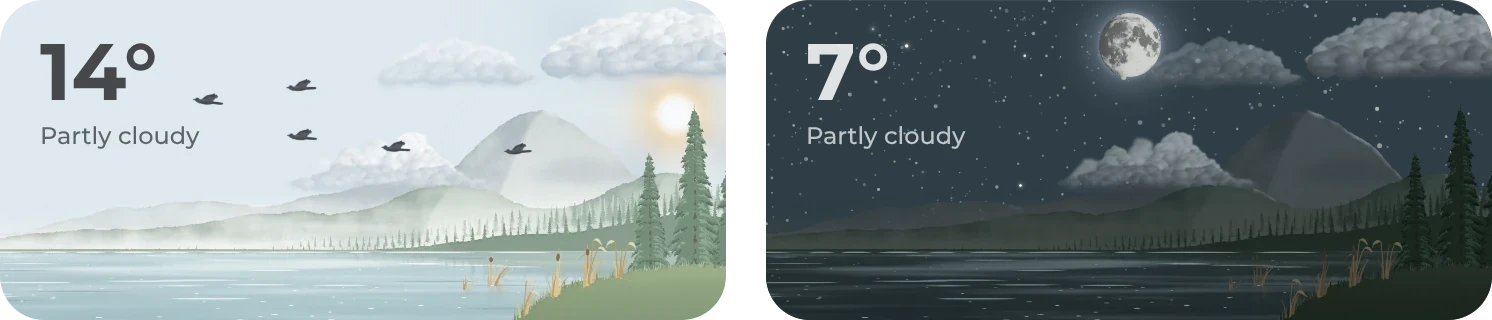
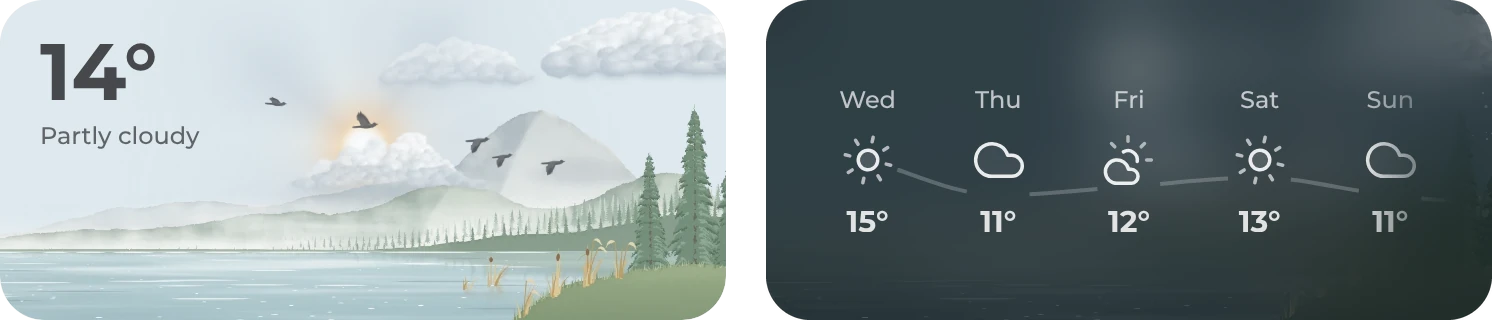
The diorama's image from the bench, with the next days open at night

diff --git a/.github/bench/images/make.py b/.github/bench/images/make.py
@@ -5,13 +5,15 @@
 Without names, it makes every image that has a file here. It needs Python with PyYAML and Pillow,
 and the bench set up as .github/bench/bench.mjs says. The other cards and the status bar's font are
 downloaded once into .github/bench/.cache, and again when their address changes, such as for a new version.
-The weather part's images are Origami Weather's own, from its README, so no file here makes them.
+The sky's and the house's images are Origami Weather's own, from its README, so no file here makes them. weather.yaml
+makes the diorama's, with the next days open at night.
 
 home.yaml has the example home: its states, the answers to templates and messages, and the home view,
 which stands behind every pop-up. Each <name>.yaml makes images/v3/<name>.webp, with its light and dark mode
 side by side, and has:
 
-  kind: panel for a card, or phone for a pop-up or the menu on a phone
+  kind: panel for a card on its page, card for a card alone, cut at its edges like Origami Weather's own images,
+    or phone for a pop-up or the menu on a phone
   cards: the cards, each a card or {file: <path under dashboard/>, replace: {text: text}, with: {key: value}},
     where replace changes the file's text, such as a room's name, and with sets or deletes top-level keys.
   drop: the files of cards to leave out, such as the climate table that another file's cards have
@@ -39,7 +41,7 @@ headline and the line. three.js is downloaded once into .github/bench/.cache too
 """
 import json, os, random, re, shutil, subprocess, sys, urllib.request
 import yaml
-from PIL import Image
+from PIL import Image, ImageDraw
 
 HERE = os.path.dirname(os.path.abspath(__file__))
 REPO = os.path.abspath(os.path.join(HERE, '../../..'))
@@ -173,6 +175,18 @@ def status(name, mode, spec, keys):
     return out
 
 
+def alone(im, scale):
+    """A card alone, cut at its edges with the theme's round corners, as Origami Weather's own images show its cards.
+    The bench's section pads the card by 16 px, and the theme's cards have a radius of 22 px."""
+    pad, radius = 16 * scale, 22 * scale
+    im = im.crop((pad, pad, im.width - pad, im.height - pad)).convert('RGBA')
+    # The corners are drawn four times as large and scaled down, so their edge is smooth
+    mask = Image.new('L', (im.width * 4, im.height * 4), 0)
+    ImageDraw.Draw(mask).rounded_rectangle((0, 0, mask.width - 1, mask.height - 1), radius * 4, fill=255)
+    im.putalpha(mask.resize(im.size, Image.LANCZOS))
+    return im
+
+
 def frame(spec, work):
     with open(os.path.join(work, 'frame.json'), 'w') as f:
         json.dump(spec, f)
@@ -267,6 +281,9 @@ def make(name):
     for mode in [spec['mode']] if 'mode' in spec else ['light', 'dark']:
         keys, shot = shoot(mode, home, files, work, phone_page)
         im = Image.open(shot).convert('RGB')
+        if spec['kind'] == 'card':
+            framed[mode] = alone(im, keys.get('scale', 2))
+            continue
         out = {'kind': spec['kind'], 'mode': mode, 'shot': shot, 'font': font, 'out': os.path.join(work, f'framed-{mode}.png')}
         if phone:
             screen(im, out)

diff --git a/.github/MAINTAINING.md b/.github/MAINTAINING.md
@@ -142,11 +142,11 @@ All text is written for people: short, plain English that sounds like a person w
 
 ## Images
 
-- All images follow one standard, so the gallery looks like one piece. Each image shows a part's light and dark mode side by side, with rounded corners and a transparent gap between them. The two halves show different things that are useful to see, such as an open mini pop-up in dark, another moment of the example home or other devices, never the same view twice. A card stands on its own, as in 2.0. The home view, the menu and each pop-up stand on a phone that faces the camera, always at a real phone's size, so the home view shows what fits on its screen, on a plain background a little lighter than the light page or a little darker than the dark one. The pictures in the demos, such as covers, are photos under CC0 or in the public domain: forests by day and the sea by night. Never a diagonal division.
+- All images follow one standard, so the gallery looks like one piece. Each image shows a part's light and dark mode side by side, with rounded corners and a transparent gap between them. A part with an image for each of several examples, such as the room pop-up's rooms, shows one mode in each, half of them light and half dark. The two halves show different things that are useful to see, such as an open mini pop-up in dark, another moment of the example home or other devices, never the same view twice. A card stands on its own, as in 2.0. The home view, the menu and each pop-up stand on a phone that faces the camera, always at a real phone's size, so the home view shows what fits on its screen, on a plain background a little lighter than the light page or a little darker than the dark one. The pictures in the demos, such as covers, are photos under CC0 or in the public domain: forests by day and the sea by night. Never a diagonal division.
 - The images show each part at its best and show off what it can do, because they are what people see first, such as birds over a weather card by day and snow falling at night. Lists are full, such as six speakers or six rooms, added as the part's README says, and every row of a table has all its cells. A phone is whole, except for a part at one edge of the screen, such as the menu at the top or the lights and fan pop-ups at the bottom: there the image ends a little past the part, and the phone meets the image's edge without a margin. A menu or a mini pop-up stands where it opens on a real phone, and each image's status bar has its own time, battery and signal, as on a real phone during a day. The weather on the home view is gray by day, so the weather card adds little color to the page, and `seed` keeps the weather card's sky the same in every shot. A sunny sky without a cloud is a weather card's plainest look, so the weather images show clouds, rain, snow or the night, and in each mode the three cards show three kinds of weather.
 - An image never shows the same thing twice, such as a cleaning vacuum in the notifications and in the favorites. The favorites are quick access first, so only the first favorite is on and the others wait for a tap. Values stay short and even, such as 20° instead of 19.5° for a thermostat and Playing instead of Bedroom as a state, and no name is cut off. Each image's scenario picks its favorites and states for this, and a change to a part keeps them.
 - The hero is the README's first image and gets more care than any other. Three simple phones in 3D, white by day and nearly black at night, with no black border around the screen, show the home view with its room cards, the music pop-up and the TV remote. They turn toward the logo, the headline and the line. The hero comes in a light and a dark version on a transparent background, and the README shows the one that matches GitHub's theme.
-- Screenshots show the real theme, font, modules and cards. `python3 .github/bench/images/make.py` makes every image with the bench from the example home's states in `.github/bench/images` and frames them, and `hero.mjs` there puts the hero's screens on its phones. The weather part shows Origami Weather's own images of its layouts, from its README.
+- Screenshots show the real theme, font, modules and cards. `python3 .github/bench/images/make.py` makes every image with the bench from the example home's states in `.github/bench/images` and frames them, and `hero.mjs` there puts the hero's screens on its phones. The weather part shows Origami Weather's own images of the sky and the house, from its README, and the bench makes the diorama's, with the next days open at night.
 - Before using a screenshot, look at it at full size and check the spacing against the rest of the dashboard. Measure gaps in the browser instead of guessing.
 - README images use absolute `raw.githubusercontent.com/hazymorning/origami/main/...` URLs, because HACS doesn't rewrite relative ones. While a release is built, they point to `next` instead, so the READMEs on `next` show the new images, and the last step before the merge points them back to `main`. `check_rules.py --release` fails while one still points to `next`.
 - A card that needs images of its own loads them from its part's folder through `cdn.jsdelivr.net/gh/hazymorning/origami@main/...`, so a home needs no files of its own. They point to `next` and back to `main` the same way. `check_rules.py` checks that each one exists, and the bench loads them from the working tree.
@@ -154,7 +154,7 @@ All text is written for people: short, plain English that sounds like a person w
 
 ## README cards
 
-The dashboard is a starting point, and every home is different. Where a part repeats the same card, such as the room cards, its folder has only one, because more copies add nothing but noise. A part that comes in variants, such as the room pop-ups, gets two examples at most, which differ in what they show. The weather part has three, because its card can look like nearly anything, and the three show how different it can be.
+The dashboard is a starting point, and every home is different. Where a part repeats the same card, such as the room cards, its folder has only one, because more copies add nothing but noise. A part that comes in variants gets only as many examples as differ in what they show, such as the room pop-up's four rooms, each with other devices. The weather part has three, because its card can look like nearly anything, and the three show how different it can be.
 
 The READMEs hold no copies of a part's YAML. A part's README links to the files in its folder, so each file exists once.
 

diff --git a/dashboard/weather/README.md b/dashboard/weather/README.md
@@ -13,7 +13,7 @@ Besides these three, Origami Weather has a classic forecast, a detailed panel an
 
 ### Diorama
 
-<img width="800" alt="The diorama on a partly cloudy day with birds over the lake, and the same weather at night under the moon and the stars, in light and dark mode" src="https://raw.githubusercontent.com/hazymorning/origami/next/images/v3/weather.webp">
+<img width="800" alt="The diorama on a partly cloudy morning with birds over the lake, and at night with the next days open, in light and dark mode" src="https://raw.githubusercontent.com/hazymorning/origami/next/images/v3/weather.webp">
 
 A paper landscape that changes with the weather, and the card on the home view. It's kept calm and simple on purpose, so nothing distracts from the picture. Since it takes the best spot on the page mostly for looks, a tap shows the next days, borrowed from Origami Weather's Sky layout. [`diorama.yaml`](diorama.yaml)
 
